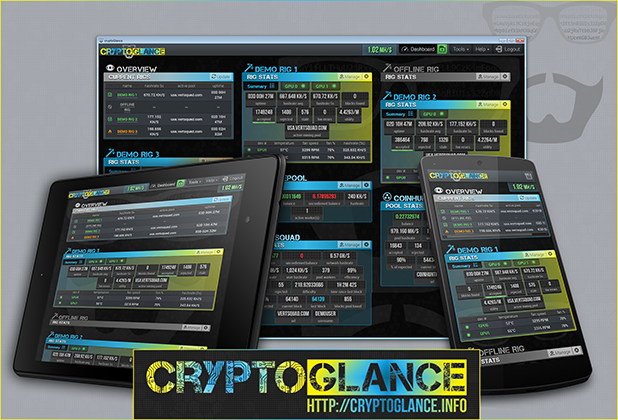
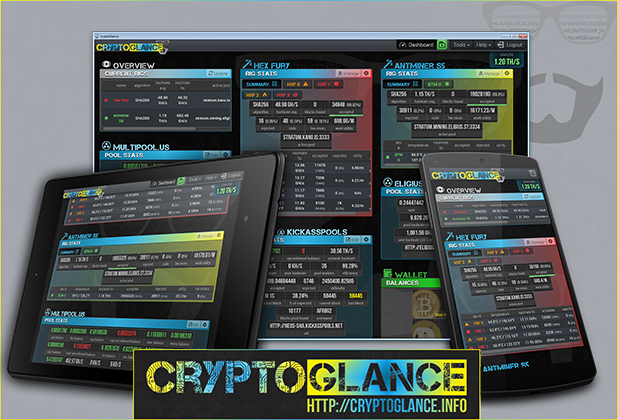
update/readme
Included v2.0 features

diff --git a/README.md b/README.md
@@ -48,6 +48,46 @@ cryptoGlance is an open-source, self-hosted PHP webapp providing you with a glan
   <li><strong>MUCH MORE is planned!</strong> Follow our social accounts, or drop by our IRC channel to find out when new features are released!</li>
 </ul>
 
+### **NEW** v2.0 Changes:
+**Recently Added Features:**
+<ul>
+  <li>Total Hashrates are now categorized by Rig Algorithms used</li>
+  <li>Enable/Disable Total Hashrate via Tools dropdown</li>
+  <li>New ability to edit Rigs and Pools</li>
+  <li>Re-amped Rig summary and device details (percentages, etc)</li>
+  <li>New Rig Details</li>
+  <li>Cleaner interface</li>
+  <li>Ability to drag+drop pool priority for a rig</li>
+  <li>Auto-Restart on BITMAIN ASIC failure (chain contains "x" instead of "0")</li>
+  <li>Rig devices have two more types of details showing:
+    <ul>
+      <li>BITMAIN ASIC fan speed (fan 1, fan 2, fan 3, etc)</li>
+      <li>BITMAIN ASIC temperatures (temperature 1, temperature 2, temperature 3, etc)</li>
+    </ul>
+  </li>
+  <li>Rigs have a new option for Algorithm</li>
+  <li>Rigs Algorithm is auto-set when using sgMiner v5+</li>
+  <li>Ability to reset rig stats</li>
+  <li>Ability to reset rig stats on pool change</li>
+  <li>New FIAT conversions for most coins (Thanks to FunkyC: <a href="https://bitcoinindex.es/" rel="external">https://bitcoinindex.es/</a>)</li>
+  <li>New debug command to see raw miner data: CTRL + D</li>
+</ul>
+**Recently Added Features:**
+<ul>
+  <li>[+POOL] Bitcoin Affiliate Network (<a href="http://mining.bitcoinaffiliatenetwork.com/" rel="external">http://mining.bitcoinaffiliatenetwork.com</a>)</li>
+  <li>[+POOL] CkPool</li>
+  <li>[+POOL] Eligius</li>
+  <li>[+POOL] MagicPool</li>
+  <li>[+POOL] Multipool.Us</li>
+  <li>[+POOL] NOMP</li>
+</ul>
+**Recently Added Coins:**
+<ul>
+  <li>[+COIN] NeosCoin</li>
+  <li>[+COIN] ReddCoin</li>
+  <li>[+COIN] PayCoin</li>
+</ul>
+
 ### Video Demo:
 
 <a href="http://www.youtube.com/watch?v=MZF1ZasbT58" rel="external"><img src="images/cryptoGlance-video-intro-landscape.png" alt="cryptoGlance Video Thumb" /></a>
@@ -56,11 +96,11 @@ cryptoGlance is an open-source, self-hosted PHP webapp providing you with a glan
 
 - cgminer / sgminer properly configured with API access allowed
 
-*Windows Version:* 
+*Windows Version:*
 
 - Windows XP or newer
 
-*Running from source:* 
+*Running from source:*
 
 - PHP v5.2+
 - Apache / IIS / mongoose, or whichever web server you prefer
@@ -68,7 +108,7 @@ cryptoGlance is an open-source, self-hosted PHP webapp providing you with a glan
 
 <br>
 
---- 
+---
 
 ### Installation:
 
@@ -98,7 +138,7 @@ _**Windows App Users:**_
 
     "listen_on": ["192.168.1.20", 4041],
 
-...and you should be good to go. 
+...and you should be good to go.
 
 <br>
 
@@ -108,7 +148,7 @@ _**Windows App Users:**_
 
 Upgrading cryptoGlance is easy.  First off, it never hurts to make a backup copy of your entire cryptoGlance folder. Files that should be kept particularly safe are:
 
-- **/user_data** folder 
+- **/user_data** folder
 
 Next, you'll need to **Enable cryptoGlance Updates** on the Settings page. Then, choose your release type:
 
@@ -143,7 +183,7 @@ _* Remember, you can choose if you'd like to be alerted to cryptoGlance updates 
 
 <br>
 
---- 
+---
 
 ### FAQ:
 
@@ -259,14 +299,8 @@ We've put a lot of our time and effort into cryptoGlance, and it hasn't been eas
 **Bitcoin**<br>
 <small>12PqYifLLTHuU2jRxTtbbJBFjkuww3zeeE</small>
 
-**Litecoin**<br>
-<small>LKUceKGBJwcmL4uVykL9CzKjmEqo6Fcx9M</small>
-
-**Vertcoin**<br>
-<small>Vp9izfX1kM3BqGADtvan1Et5nBiU1s32Zp</small>
-
-**Dogecoin**<br>
-<small>D8bcNHYbkBDqwkvZKKpfu8oAyzqezJ5RvW</small>
+**Reddcoin**<br>
+<small>RiJuGDb1e1SLVaTseHeMXMUrzhei2ex5AQ</small>
 
 ---
 
